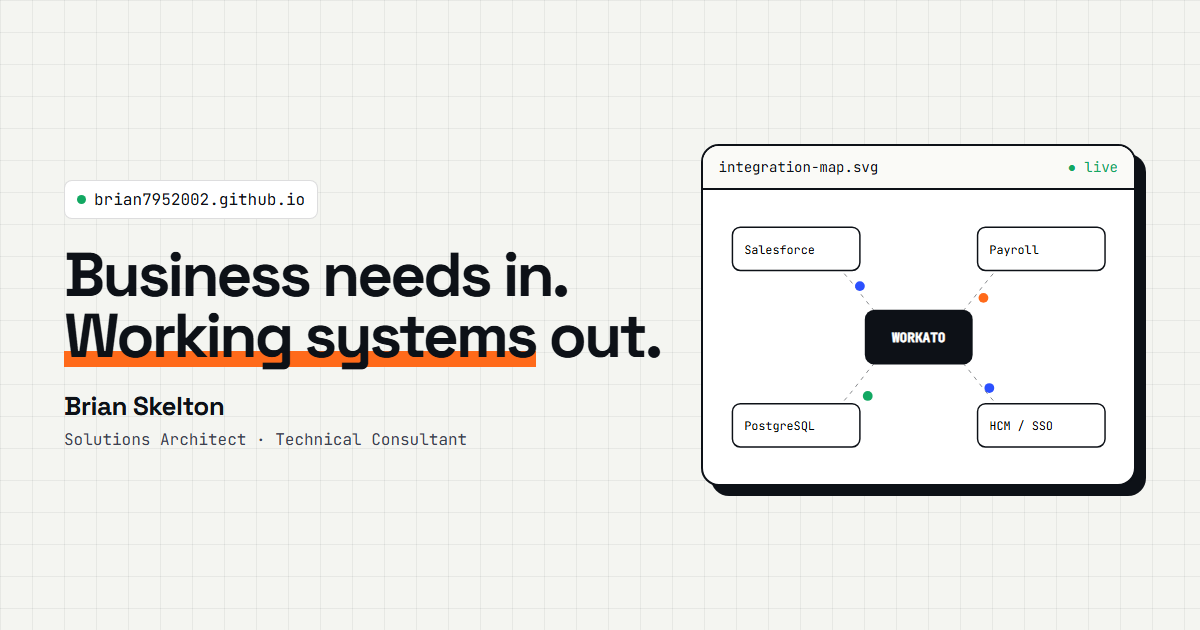
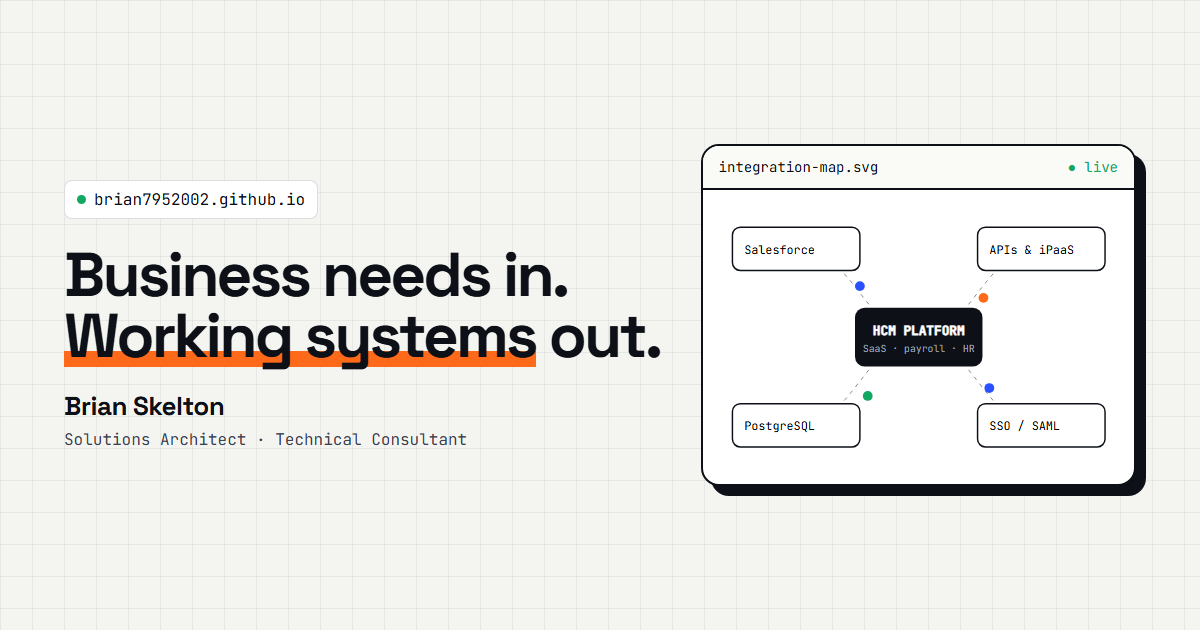
Center the integration map on the HCM platform, not Workato
Workato was a short-lived part of the toolkit, so it moves from the hero
hub to a sub-label on an "APIs & iPaaS" leaf. The migration case study
is retitled around the outcome and moved below the Top 8 study, and the
spec sheet, career text, schema and OG image follow suit.

Changed region(s): [[0.7092, 0.4825, 0.8325, 0.6032], [0.8325, 0.3921, 0.8942, 0.4222], [0.8633, 0.6635, 0.8942, 0.6937]]

diff --git a/docs/index.html b/docs/index.html
@@ -38,7 +38,7 @@
   "url": "https://brian7952002.github.io/",
   "address": {"@type": "PostalAddress", "addressLocality": "Alpharetta", "addressRegion": "GA", "addressCountry": "US"},
   "alumniOf": ["Georgia Institute of Technology", "Valencia College", "Columbus State University"],
-  "knowsAbout": ["Solution architecture", "Systems integration", "Workato", "SQL", "Data migration", "SSO", "SAML", "Payroll", "HCM", "SaaS implementation"],
+  "knowsAbout": ["Solution architecture", "HCM", "SaaS implementation", "Systems integration", "API integration", "SQL", "Data migration", "SSO", "SAML", "Payroll"],
   "sameAs": ["https://www.linkedin.com/in/b-skelton/", "https://github.com/brian7952002"]
 }
 </script>
@@ -87,14 +87,14 @@
       </dl>
     </div>
 
-    <figure class="diagram" aria-label="Diagram of the systems I integrate, with Workato as the orchestration hub">
+    <figure class="diagram" aria-label="Diagram of the systems I integrate, with an HCM / SaaS platform at the center">
       <div class="bar"><span>integration-map.svg</span><span class="live">● live</span></div>
       <svg viewBox="0 0 520 380" role="img" aria-hidden="true">
         <g>
           <path class="edge" data-node="crm" id="e1" d="M260 190 C200 190 170 80 110 80"/>
-          <path class="edge" data-node="payroll" id="e2" d="M260 190 C320 190 350 80 410 80"/>
+          <path class="edge" data-node="api" id="e2" d="M260 190 C320 190 350 80 410 80"/>
           <path class="edge" data-node="db" id="e3" d="M260 190 C200 190 170 300 110 300"/>
-          <path class="edge" data-node="hcm" id="e4" d="M260 190 C320 190 350 300 410 300"/>
+          <path class="edge" data-node="migrate" id="e4" d="M260 190 C320 190 350 300 410 300"/>
           <path class="edge" data-node="sso" id="e5" d="M260 190 L80 190"/>
           <path class="edge" data-node="pendo" id="e6" d="M260 190 L440 190"/>
         </g>
@@ -106,16 +106,16 @@
           <circle r="4.5" class="p-orange"><animateMotion dur="1.8s" repeatCount="indefinite" keyPoints="1;0" keyTimes="0;1" calcMode="linear"><mpath href="#e5"/></animateMotion></circle>
           <circle r="4.5" class="p-green"><animateMotion dur="2s" begin=".3s" repeatCount="indefinite"><mpath href="#e6"/></animateMotion></circle>
         </g>
-        <g class="node hub" transform="translate(205 160)"><rect width="110" height="60" rx="10"/><text x="55" y="27" text-anchor="middle" font-weight="600">WORKATO</text><text class="sub" x="55" y="44" text-anchor="middle">orchestration hub</text></g>
-        <g class="node" data-node="crm" data-log="sync|Salesforce → Workato · accounts &amp; contacts" transform="translate(40 58)"><rect width="140" height="44" rx="8"/><text x="12" y="20">Salesforce</text><text class="sub" x="12" y="34">CRM · accounts</text></g>
-        <g class="node" data-node="payroll" data-log="etl|payroll batch validated · earnings, deductions, tax" transform="translate(340 58)"><rect width="140" height="44" rx="8"/><text x="12" y="20">Payroll engine</text><text class="sub" x="12" y="34">earnings · tax</text></g>
+        <g class="node hub" transform="translate(190 158)"><rect width="140" height="64" rx="10"/><text x="70" y="28" text-anchor="middle" font-weight="600">HCM PLATFORM</text><text class="sub" x="70" y="46" text-anchor="middle">SaaS · payroll · HR</text></g>
+        <g class="node" data-node="crm" data-log="sync|Salesforce → HCM · accounts &amp; contacts" transform="translate(40 58)"><rect width="140" height="44" rx="8"/><text x="12" y="20">Salesforce</text><text class="sub" x="12" y="34">CRM · accounts</text></g>
+        <g class="node" data-node="api" data-log="api|third-party payload mapped · webhook delivered" transform="translate(340 58)"><rect width="140" height="44" rx="8"/><text x="12" y="20">APIs &amp; iPaaS</text><text class="sub" x="12" y="34">REST · Workato</text></g>
         <g class="node" data-node="db" data-log="report|custom PostgreSQL report → client dashboard" transform="translate(40 278)"><rect width="140" height="44" rx="8"/><text x="12" y="20">PostgreSQL</text><text class="sub" x="12" y="34">reporting · ETL</text></g>
-        <g class="node" data-node="hcm" data-log="hcm|employee records mapped · org structure synced" transform="translate(340 278)"><rect width="140" height="44" rx="8"/><text x="12" y="20">HCM / HRIS</text><text class="sub" x="12" y="34">employees · org</text></g>
+        <g class="node" data-node="migrate" data-log="migrate|legacy payroll history loaded · 0 variances" transform="translate(340 278)"><rect width="140" height="44" rx="8"/><text x="12" y="20">Data migration</text><text class="sub" x="12" y="34">legacy → new system</text></g>
         <g class="node" data-node="sso" data-log="auth|SAML assertion validated · IdP → app" transform="translate(10 168)"><rect width="76" height="44" rx="8"/><text x="10" y="20">SSO</text><text class="sub" x="10" y="34">SAML 2.0</text></g>
         <g class="node" data-node="pendo" data-log="adopt|in-app guide published · targeted segment" transform="translate(434 168)"><rect width="76" height="44" rx="8"/><text x="10" y="20">Pendo</text><text class="sub" x="10" y="34">adoption</text></g>
       </svg>
       <div class="log" id="log" aria-hidden="true"></div>
-      <figcaption class="sr-only">An animated map showing Salesforce, a payroll engine, PostgreSQL, HCM, SSO and Pendo all connected through Workato.</figcaption>
+      <figcaption class="sr-only">An animated map with an HCM / SaaS platform at the center, connected to Salesforce, APIs and iPaaS tools, PostgreSQL reporting, data migration, SSO and Pendo.</figcaption>
     </figure>
   </div>
 
@@ -123,20 +123,6 @@
   <section id="work" aria-labelledby="work-h">
     <div class="sh reveal"><span class="n">/01</span><h2 id="work-h">Case studies</h2><p>Each one: the problem as the business felt it, what I built, and the number that moved.</p></div>
     <div class="cases">
-      <article class="case reveal">
-        <div class="big"><span class="mono">PRIMEPAY · 2024–25</span><div class="m">↓ downtime<small>during client data migration</small></div></div>
-        <div class="body">
-          <h3>Workato recipe system for client migrations</h3>
-          <div class="meta">Integration architecture · Automation</div>
-          <div class="pbi">
-            <div><b>Problem</b>Each migration was hand-built, so clients lost access during cutover and every deployment started from scratch.</div>
-            <div><b>Build</b>A recipe-creation system in Workato with reusable connectors and validation steps that any migration could start from.</div>
-            <div><b>Impact</b>Less migration downtime, plus faster and more repeatable deployments across clients.</div>
-          </div>
-          <div class="stack"><span>Workato</span><span>REST APIs</span><span>PostgreSQL</span><span>ETL</span></div>
-        </div>
-      </article>
-
       <article class="case reveal">
         <div class="big" style="--slab:#2b50ff"><span class="mono">PAYLOCITY · 2022</span><div class="m">$1M<small>ROI · −58% client interactions</small></div></div>
         <div class="body">
@@ -148,6 +134,20 @@
             <div><b>Impact</b>58% fewer client interactions at those points, worth $1M in ROI.</div>
           </div>
           <div class="stack"><span>Pendo.io</span><span>SQL</span><span>Journey mapping</span><span>UX research</span></div>
+        </div>
+      </article>
+
+      <article class="case reveal">
+        <div class="big"><span class="mono">PRIMEPAY · 2024–25</span><div class="m">↓ downtime<small>during client data migration</small></div></div>
+        <div class="body">
+          <h3>Repeatable integrations for client data migrations</h3>
+          <div class="meta">Integration architecture · Data migration · HCM</div>
+          <div class="pbi">
+            <div><b>Problem</b>Each HR SaaS migration was hand-built, so clients lost access during cutover and every deployment started from scratch.</div>
+            <div><b>Build</b>Reusable integration templates with standard connectors, field mapping and validation steps that any client migration could start from.</div>
+            <div><b>Impact</b>Less migration downtime, plus faster and more repeatable deployments across clients.</div>
+          </div>
+          <div class="stack"><span>REST APIs</span><span>PostgreSQL</span><span>ETL</span><span>iPaaS (Workato)</span></div>
         </div>
       </article>
 
@@ -271,7 +271,7 @@
       <li class="stage done"><div class="s" aria-hidden="true">✓</div><div class="y">2017–19</div><h4>Account Manager III</h4><div class="c">Paylocity</div><p>$1.3M book of business at 98% retention; guided 80+ clients from setup to expansion.</p></li>
       <li class="stage done"><div class="s" aria-hidden="true">✓</div><div class="y">2019–21</div><h4>Technical Support Specialist II</h4><div class="c">Paylocity</div><p>350+ tickets a month, 100+ enhancement requests, SQL data integrity.</p></li>
       <li class="stage done"><div class="s" aria-hidden="true">✓</div><div class="y">2021–23</div><h4>Digital Engagement Specialist</h4><div class="c">Paylocity</div><p>Led the Pendo rollout (300+ guides) and built the team's governance model.</p></li>
-      <li class="stage done"><div class="s" aria-hidden="true">✓</div><div class="y">2023–26</div><h4>Technical Solutions Consultant</h4><div class="c">PrimePay</div><p>Workato automation, PostgreSQL reporting, SSO/SAML, technical delivery.</p></li>
+      <li class="stage done"><div class="s" aria-hidden="true">✓</div><div class="y">2023–26</div><h4>Technical Solutions Consultant</h4><div class="c">PrimePay</div><p>HR SaaS integrations &amp; automation, PostgreSQL reporting, SSO/SAML, technical delivery.</p></li>
       <li class="stage cur"><div class="s" aria-hidden="true">▶</div><div class="y">2026–now</div><h4>Enterprise Implementation Mgr &amp; Solutions Architect</h4><div class="c">Seso Inc.</div><p>Payroll/HCM integrations, high-volume data migration, process architecture.</p></li>
     </ol>
 
@@ -300,7 +300,7 @@
   <section id="spec" aria-labelledby="spec-h">
     <div class="sh reveal"><span class="n">/05</span><h2 id="spec-h">Spec sheet</h2></div>
     <div class="spec reveal">
-      <div><h4>Integration &amp; Data</h4><ul><li>Workato <span>Pro III</span></li><li>PostgreSQL · MySQL · MS SQL</li><li>Data migration &amp; ETL</li><li>REST / third-party APIs</li><li>SSO &amp; SAML</li></ul></div>
+      <div><h4>Integration &amp; Data</h4><ul><li>HCM &amp; payroll SaaS</li><li>REST / third-party APIs</li><li>Data migration &amp; ETL</li><li>PostgreSQL · MySQL · MS SQL</li><li>SSO &amp; SAML</li><li>iPaaS <span>Workato</span></li></ul></div>
       <div><h4>Platforms &amp; Code</h4><ul><li>Salesforce</li><li>Pendo.io <span>Admin · PLS</span></li><li>Python · Java · TypeScript</li><li>JavaScript · HTML / CSS</li><li>AWS <span>CCP</span></li></ul></div>
       <div><h4>Delivery</h4><ul><li>Implementation lifecycle</li><li>Requirements &amp; discovery</li><li>Solution architecture</li><li>Change management</li><li>QA, docs &amp; training</li></ul></div>
     </div>

diff --git a/tools/og-image.html b/tools/og-image.html
@@ -38,10 +38,10 @@
       <path class="e" d="M220 150 C170 150 150 240 100 240"/><path class="e" d="M220 150 C270 150 290 240 340 240"/>
       <circle cx="160" cy="98" r="5" fill="#2b50ff"/><circle cx="286" cy="110" r="5" fill="#ff6a1a"/><circle cx="168" cy="210" r="5" fill="#12a862"/><circle cx="292" cy="202" r="5" fill="#2b50ff"/>
       <g class="n" transform="translate(30 38)"><rect width="130" height="44" rx="8"/><text x="12" y="27">Salesforce</text></g>
-      <g class="n" transform="translate(280 38)"><rect width="130" height="44" rx="8"/><text x="12" y="27">Payroll</text></g>
+      <g class="n" transform="translate(280 38)"><rect width="130" height="44" rx="8"/><text x="12" y="27">APIs &amp; iPaaS</text></g>
       <g class="n" transform="translate(30 218)"><rect width="130" height="44" rx="8"/><text x="12" y="27">PostgreSQL</text></g>
-      <g class="n" transform="translate(280 218)"><rect width="130" height="44" rx="8"/><text x="12" y="27">HCM / SSO</text></g>
-      <g transform="translate(165 122)"><rect width="110" height="56" rx="10" fill="#0d1117"/><text x="55" y="33" fill="#fff" text-anchor="middle" font-family="JetBrains Mono" font-size="13" font-weight="600">WORKATO</text></g>
+      <g class="n" transform="translate(280 218)"><rect width="130" height="44" rx="8"/><text x="12" y="27">SSO / SAML</text></g>
+      <g transform="translate(155 120)"><rect width="130" height="60" rx="10" fill="#0d1117"/><text x="65" y="28" fill="#fff" text-anchor="middle" font-family="JetBrains Mono" font-size="13" font-weight="600">HCM PLATFORM</text><text x="65" y="45" fill="#9aa3b2" text-anchor="middle" font-family="JetBrains Mono" font-size="10">SaaS · payroll · HR</text></g>
     </svg>
   </div>
 </body>

diff --git a/docs/assets/js/main.js b/docs/assets/js/main.js
@@ -54,11 +54,11 @@
   // ---------- integration map: live log + hover ----------
   const log = document.getElementById('log');
   const ambient = [
-    ['sync', 'Salesforce → Workato · accounts & contacts'],
+    ['sync', 'Salesforce → HCM · accounts & contacts'],
     ['auth', 'SAML assertion validated · IdP → app'],
     ['etl', 'payroll batch validated · 0 errors'],
     ['report', 'client_earnings.sql → PostgreSQL'],
-    ['hcm', 'new hires pushed to payroll'],
+    ['migrate', 'legacy payroll history validated'],
     ['adopt', 'in-app guide published · targeted segment'],
   ];
   const time = () => new Date().toLocaleTimeString('en-US', { hour12: false });
